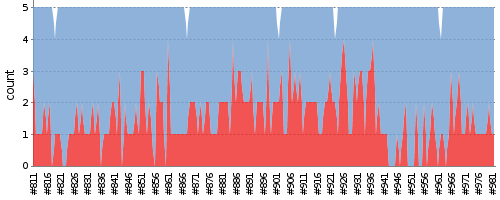
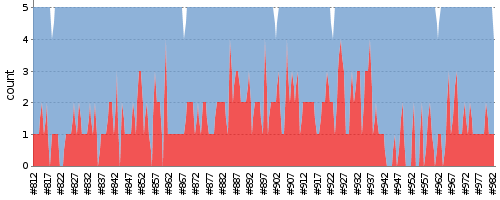
update report

diff --git a/index.md b/index.md
@@ -1,7 +1,7 @@
 ---
 layout: default
 ---
-Last update : 2016/01/27 07:59:07
+Last update : 2016/01/27 08:59:07
   
 ### Job Summary
 ___
@@ -113,6 +113,7 @@ ___
 #### Build History
 |Status|Time|Duration|Inspection|Test|Coverage|Changes|Build|Console|Image|Video|Note|
 |---|---|---|---|---|---|---|---|---|---|---|---|---|
+|![Jenkins Icon](http://jenkinshrg.github.io/images/24x24/red.png)FAILURE|2016/01/27 08:00|13 min.||1 err.|||[openhrp3.log](https://drive.google.com/file/d/0B54sHwaxmuM4UkUzNGJnYVVNMHM/view?usp=drivesdk)<br>[octomap-1.6.8.log](https://drive.google.com/file/d/0B54sHwaxmuM4Q09rTElmZ0VYd00/view?usp=drivesdk)<br>[hrpsys-base.log](https://drive.google.com/file/d/0B54sHwaxmuM4ejNjUGtndElXOUU/view?usp=drivesdk)<br>[HRP2.log](https://drive.google.com/file/d/0B54sHwaxmuM4MXNHSl9qLWNMTDQ/view?usp=drivesdk)<br>[HRP2DRC.log](https://drive.google.com/file/d/0B54sHwaxmuM4RWtHNUFWM2FzSE0/view?usp=drivesdk)<br>[hmc2.log](https://drive.google.com/file/d/0B54sHwaxmuM4RFNxUU5qZXREYk0/view?usp=drivesdk)<br>[hrpsys-humanoid.log](https://drive.google.com/file/d/0B54sHwaxmuM4el9KTmdwMnoxUkE/view?usp=drivesdk)<br>[hrpsys-private.log](https://drive.google.com/file/d/0B54sHwaxmuM4a0szNDJXQ1lLVGc/view?usp=drivesdk)<br>[choreonoid.log](https://drive.google.com/file/d/0B54sHwaxmuM4ZEZqRFVuT1p4SFk/view?usp=drivesdk)<br>|[jenkinshrg.txt](https://drive.google.com/file/d/0B54sHwaxmuM4RU40UHM0bmtvWW8/view?usp=drivesdk)<br>[testbed-terrain.txt](https://drive.google.com/file/d/0B54sHwaxmuM4enNCR2tFYmE4djQ/view?usp=drivesdk)<br>[drc-valves.txt](https://drive.google.com/file/d/0B54sHwaxmuM4WDJ2UEtLZE5xc2s/view?usp=drivesdk)<br>[drc-wall-testbed.txt](https://drive.google.com/file/d/0B54sHwaxmuM4QnE3V001Y3BQcHc/view?usp=drivesdk)<br>|[jenkinshrg.png](https://drive.google.com/file/d/0B54sHwaxmuM4OEVfT3hnOTZnUlk/view?usp=drivesdk)<br>[drc-valves.png](https://drive.google.com/file/d/0B54sHwaxmuM4WmRFY01tZnZTdkk/view?usp=drivesdk)<br>[drc-wall-testbed.png](https://drive.google.com/file/d/0B54sHwaxmuM4dFJvQW1mbDVUN2s/view?usp=drivesdk)<br>|[jenkinshrg.ogv](https://drive.google.com/file/d/0B54sHwaxmuM4VGtKb19OSS1HYzg/view?usp=drivesdk)<br>[drc-valves.ogv](https://drive.google.com/file/d/0B54sHwaxmuM4T2Mtc0c5YlZLODA/view?usp=drivesdk)<br>||
 |![Jenkins Icon](http://jenkinshrg.github.io/images/24x24/yellow.png)UNSTABLE|2016/01/27 07:00|49 min.||1 err.|||[openhrp3.log](https://drive.google.com/file/d/0B54sHwaxmuM4NEh3dHRsODllOFU/view?usp=drivesdk)<br>[octomap-1.6.8.log](https://drive.google.com/file/d/0B54sHwaxmuM4a1RIbkRWT0owdE0/view?usp=drivesdk)<br>[hrpsys-base.log](https://drive.google.com/file/d/0B54sHwaxmuM4N0F3aVNMUkRVUjA/view?usp=drivesdk)<br>[HRP2.log](https://drive.google.com/file/d/0B54sHwaxmuM4SEVJbFU4WU80LUU/view?usp=drivesdk)<br>[HRP2DRC.log](https://drive.google.com/file/d/0B54sHwaxmuM4bWtXZ0pmVkJMUVE/view?usp=drivesdk)<br>[hmc2.log](https://drive.google.com/file/d/0B54sHwaxmuM4TlRseWhFOEk2Y1E/view?usp=drivesdk)<br>[hrpsys-humanoid.log](https://drive.google.com/file/d/0B54sHwaxmuM4bXl2ZGc5dU9FS0U/view?usp=drivesdk)<br>[hrpsys-private.log](https://drive.google.com/file/d/0B54sHwaxmuM4bkJGQ3dyc1NQR0E/view?usp=drivesdk)<br>[choreonoid.log](https://drive.google.com/file/d/0B54sHwaxmuM4V3JQZldNX1RSeUU/view?usp=drivesdk)<br>|[jenkinshrg.txt](https://drive.google.com/file/d/0B54sHwaxmuM4ZXZRVVVrZlF6VVU/view?usp=drivesdk)<br>[testbed-terrain.txt](https://drive.google.com/file/d/0B54sHwaxmuM4SWxxQVl0M21ERVU/view?usp=drivesdk)<br>[drc-valves.txt](https://drive.google.com/file/d/0B54sHwaxmuM4NGNORlE3Z00zOUk/view?usp=drivesdk)<br>[drc-wall-testbed.txt](https://drive.google.com/file/d/0B54sHwaxmuM4LUFyLWoxZ25wbUE/view?usp=drivesdk)<br>[irex-balance-beam-auto.txt](https://drive.google.com/file/d/0B54sHwaxmuM4eEl3MW5HMUFhZHc/view?usp=drivesdk)<br>|[jenkinshrg.png](https://drive.google.com/file/d/0B54sHwaxmuM4blJETEZqWEJGd28/view?usp=drivesdk)<br>[testbed-terrain.png](https://drive.google.com/file/d/0B54sHwaxmuM4Qk4tamZIM0dVM0E/view?usp=drivesdk)<br>[drc-valves.png](https://drive.google.com/file/d/0B54sHwaxmuM4ZGNGbDBXMXJwdEE/view?usp=drivesdk)<br>[drc-wall-testbed.png](https://drive.google.com/file/d/0B54sHwaxmuM4X1d4WHNaRkJ6b2c/view?usp=drivesdk)<br>[irex-balance-beam-auto.png](https://drive.google.com/file/d/0B54sHwaxmuM4WF9jX3hFREtrWnc/view?usp=drivesdk)<br>|[jenkinshrg.ogv](https://drive.google.com/file/d/0B54sHwaxmuM4djM5a080YWx1dms/view?usp=drivesdk)<br>[testbed-terrain.ogv](https://drive.google.com/file/d/0B54sHwaxmuM4T3oxaW1vRXhoU1k/view?usp=drivesdk)<br>[drc-valves.ogv](https://drive.google.com/file/d/0B54sHwaxmuM4RXRKMklyN0lDNEU/view?usp=drivesdk)<br>[drc-wall-testbed.ogv](https://drive.google.com/file/d/0B54sHwaxmuM4Ym1zdmlFRV9pWGc/view?usp=drivesdk)<br>[irex-balance-beam-auto.ogv](https://drive.google.com/file/d/0B54sHwaxmuM4dkNjblpIUVU4VE0/view?usp=drivesdk)<br>||
 |![Jenkins Icon](http://jenkinshrg.github.io/images/24x24/yellow.png)UNSTABLE|2016/01/27 06:00|49 min.||1 err.|||[openhrp3.log](https://drive.google.com/file/d/0B54sHwaxmuM4R1BrZ3U3UWZXTDA/view?usp=drivesdk)<br>[octomap-1.6.8.log](https://drive.google.com/file/d/0B54sHwaxmuM4RGMyTU5xMDM4aWc/view?usp=drivesdk)<br>[hrpsys-base.log](https://drive.google.com/file/d/0B54sHwaxmuM4TkFvdXY1MFp0a1k/view?usp=drivesdk)<br>[HRP2.log](https://drive.google.com/file/d/0B54sHwaxmuM4d2RWeWJtMDdfa0E/view?usp=drivesdk)<br>[HRP2DRC.log](https://drive.google.com/file/d/0B54sHwaxmuM4b3V5M3FFemhzdW8/view?usp=drivesdk)<br>[hmc2.log](https://drive.google.com/file/d/0B54sHwaxmuM4dEhUYmNrTV8tVjg/view?usp=drivesdk)<br>[hrpsys-humanoid.log](https://drive.google.com/file/d/0B54sHwaxmuM4ZUF1UFRxOGw1Tm8/view?usp=drivesdk)<br>[hrpsys-private.log](https://drive.google.com/file/d/0B54sHwaxmuM4dnNiRUx4WkhiMjA/view?usp=drivesdk)<br>[choreonoid.log](https://drive.google.com/file/d/0B54sHwaxmuM4WFY2OVhMYzRra1E/view?usp=drivesdk)<br>|[jenkinshrg.txt](https://drive.google.com/file/d/0B54sHwaxmuM4YzRSY3BlU3htWk0/view?usp=drivesdk)<br>[testbed-terrain.txt](https://drive.google.com/file/d/0B54sHwaxmuM4T0Z6ZEx3bUtRaXM/view?usp=drivesdk)<br>[drc-valves.txt](https://drive.google.com/file/d/0B54sHwaxmuM4OHV1cHY5c1dXclk/view?usp=drivesdk)<br>[drc-wall-testbed.txt](https://drive.google.com/file/d/0B54sHwaxmuM4X1JNM2VoZGt6RjQ/view?usp=drivesdk)<br>[irex-balance-beam-auto.txt](https://drive.google.com/file/d/0B54sHwaxmuM4anFuMV9VcGFLZmM/view?usp=drivesdk)<br>|[jenkinshrg.png](https://drive.google.com/file/d/0B54sHwaxmuM4TWt2c0E4dWx0blk/view?usp=drivesdk)<br>[testbed-terrain.png](https://drive.google.com/file/d/0B54sHwaxmuM4Z0xZMXViRmJoR3c/view?usp=drivesdk)<br>[drc-valves.png](https://drive.google.com/file/d/0B54sHwaxmuM4eU5kdXktYkNRaVE/view?usp=drivesdk)<br>[drc-wall-testbed.png](https://drive.google.com/file/d/0B54sHwaxmuM4YjJ2VlFOeEZ1YnM/view?usp=drivesdk)<br>[irex-balance-beam-auto.png](https://drive.google.com/file/d/0B54sHwaxmuM4dXMxY3hmNVBFTUE/view?usp=drivesdk)<br>|[jenkinshrg.ogv](https://drive.google.com/file/d/0B54sHwaxmuM4MmZIalIxWG4tTEU/view?usp=drivesdk)<br>[testbed-terrain.ogv](https://drive.google.com/file/d/0B54sHwaxmuM4WjRZWk4xOXFCTXc/view?usp=drivesdk)<br>[drc-valves.ogv](https://drive.google.com/file/d/0B54sHwaxmuM4Sk9DaU02dXZ3VTQ/view?usp=drivesdk)<br>[drc-wall-testbed.ogv](https://drive.google.com/file/d/0B54sHwaxmuM4SFFZUmhoMTUtcGs/view?usp=drivesdk)<br>[irex-balance-beam-auto.ogv](https://drive.google.com/file/d/0B54sHwaxmuM4cGJEUHZKZzYzSW8/view?usp=drivesdk)<br>||
 |![Jenkins Icon](http://jenkinshrg.github.io/images/24x24/yellow.png)UNSTABLE|2016/01/27 05:00|48 min.||2 err.|||[openhrp3.log](https://drive.google.com/file/d/0B54sHwaxmuM4UFhXMnRPeXBNWVU/view?usp=drivesdk)<br>[octomap-1.6.8.log](https://drive.google.com/file/d/0B54sHwaxmuM4LVFyaXMyNkg5ZU0/view?usp=drivesdk)<br>[hrpsys-base.log](https://drive.google.com/file/d/0B54sHwaxmuM4eVlqM2VfdERnTGc/view?usp=drivesdk)<br>[HRP2.log](https://drive.google.com/file/d/0B54sHwaxmuM4b0pweDAzWVVESmc/view?usp=drivesdk)<br>[HRP2DRC.log](https://drive.google.com/file/d/0B54sHwaxmuM4UHVTcno3ZWZaZTQ/view?usp=drivesdk)<br>[hmc2.log](https://drive.google.com/file/d/0B54sHwaxmuM4UUZaMFFxXzVvSlU/view?usp=drivesdk)<br>[hrpsys-humanoid.log](https://drive.google.com/file/d/0B54sHwaxmuM4N2d2eFFIVTR5QUU/view?usp=drivesdk)<br>[hrpsys-private.log](https://drive.google.com/file/d/0B54sHwaxmuM4allHWHJITWtHcUU/view?usp=drivesdk)<br>[choreonoid.log](https://drive.google.com/file/d/0B54sHwaxmuM4Z2pEcEwwN2FaSEU/view?usp=drivesdk)<br>|[jenkinshrg.txt](https://drive.google.com/file/d/0B54sHwaxmuM4WmRFUGtBR29IU0U/view?usp=drivesdk)<br>[testbed-terrain.txt](https://drive.google.com/file/d/0B54sHwaxmuM4dzQtd1hkWl9ZN3c/view?usp=drivesdk)<br>[drc-valves.txt](https://drive.google.com/file/d/0B54sHwaxmuM4S2lXSEc1UnEyY2c/view?usp=drivesdk)<br>[drc-wall-testbed.txt](https://drive.google.com/file/d/0B54sHwaxmuM4WldPLXQ1RDhsWmM/view?usp=drivesdk)<br>[irex-balance-beam-auto.txt](https://drive.google.com/file/d/0B54sHwaxmuM4M0RubElBWlFvYzg/view?usp=drivesdk)<br>|[jenkinshrg.png](https://drive.google.com/file/d/0B54sHwaxmuM4dkZjeXlXVnNTU3c/view?usp=drivesdk)<br>[testbed-terrain.png](https://drive.google.com/file/d/0B54sHwaxmuM4Q0JOWUJKX2htMHc/view?usp=drivesdk)<br>[drc-valves.png](https://drive.google.com/file/d/0B54sHwaxmuM4YUV4SFdFUkJZX00/view?usp=drivesdk)<br>[drc-wall-testbed.png](https://drive.google.com/file/d/0B54sHwaxmuM4MndBdk5nNTNiRlU/view?usp=drivesdk)<br>[irex-balance-beam-auto.png](https://drive.google.com/file/d/0B54sHwaxmuM4bnlua0pUd0JYcmc/view?usp=drivesdk)<br>|[jenkinshrg.ogv](https://drive.google.com/file/d/0B54sHwaxmuM4ZDgtQmJiektLckU/view?usp=drivesdk)<br>[testbed-terrain.ogv](https://drive.google.com/file/d/0B54sHwaxmuM4RzJyU0tGTy13bjQ/view?usp=drivesdk)<br>[drc-valves.ogv](https://drive.google.com/file/d/0B54sHwaxmuM4NFlrUlFralNtcWc/view?usp=drivesdk)<br>[drc-wall-testbed.ogv](https://drive.google.com/file/d/0B54sHwaxmuM4NDhLOFA2QkJZeW8/view?usp=drivesdk)<br>[irex-balance-beam-auto.ogv](https://drive.google.com/file/d/0B54sHwaxmuM4ak1hbUR6NjJqYk0/view?usp=drivesdk)<br>||
@@ -212,4 +213,3 @@ ___
 |![Jenkins Icon](http://jenkinshrg.github.io/images/24x24/yellow.png)UNSTABLE|2016/01/23 06:00|48 min.||2 err.|||[openhrp3.log](https://drive.google.com/file/d/0B54sHwaxmuM4LXFtWm1ENjF6TlU/view?usp=drivesdk)<br>[hrpsys-base.log](https://drive.google.com/file/d/0B54sHwaxmuM4NXI2R3M2RW05Qk0/view?usp=drivesdk)<br>[HRP2.log](https://drive.google.com/file/d/0B54sHwaxmuM4ck5KeU9DMnY4aW8/view?usp=drivesdk)<br>[HRP2DRC.log](https://drive.google.com/file/d/0B54sHwaxmuM4NnlBZS1iMlNINXc/view?usp=drivesdk)<br>[hmc2.log](https://drive.google.com/file/d/0B54sHwaxmuM4LVR0S0txRThKTjA/view?usp=drivesdk)<br>[hrpsys-humanoid.log](https://drive.google.com/file/d/0B54sHwaxmuM4Y1I2OERuSmhzN2s/view?usp=drivesdk)<br>[hrpsys-private.log](https://drive.google.com/file/d/0B54sHwaxmuM4TUtEenZ4MkE0M1E/view?usp=drivesdk)<br>[choreonoid.log](https://drive.google.com/file/d/0B54sHwaxmuM4dXJNNVR3dGhGZFk/view?usp=drivesdk)<br>|[jenkinshrg.txt](https://drive.google.com/file/d/0B54sHwaxmuM4OG5tenJJQkp1cFk/view?usp=drivesdk)<br>[testbed-terrain.txt](https://drive.google.com/file/d/0B54sHwaxmuM4LVpVVVBWRUthbmc/view?usp=drivesdk)<br>[drc-valves.txt](https://drive.google.com/file/d/0B54sHwaxmuM4R2gzb2Vta3JrTDA/view?usp=drivesdk)<br>[drc-wall-testbed.txt](https://drive.google.com/file/d/0B54sHwaxmuM4cDBjeG80cm5OSXM/view?usp=drivesdk)<br>[irex-balance-beam-auto.txt](https://drive.google.com/file/d/0B54sHwaxmuM4LUtyNGtfN1lTVWM/view?usp=drivesdk)<br>|[jenkinshrg.png](https://drive.google.com/file/d/0B54sHwaxmuM4WG04dzJqZHhtdHc/view?usp=drivesdk)<br>[testbed-terrain.png](https://drive.google.com/file/d/0B54sHwaxmuM4a0F1b21iUF9ZV2M/view?usp=drivesdk)<br>[drc-valves.png](https://drive.google.com/file/d/0B54sHwaxmuM4SnNsNVN2TVlhU1k/view?usp=drivesdk)<br>[drc-wall-testbed.png](https://drive.google.com/file/d/0B54sHwaxmuM4Tm1nRkxVR2hmVDg/view?usp=drivesdk)<br>[irex-balance-beam-auto.png](https://drive.google.com/file/d/0B54sHwaxmuM4S1lQZm1NaEx4TDQ/view?usp=drivesdk)<br>|[jenkinshrg.ogv](https://drive.google.com/file/d/0B54sHwaxmuM4MlJ6NTRZZW9LMXM/view?usp=drivesdk)<br>[testbed-terrain.ogv](https://drive.google.com/file/d/0B54sHwaxmuM4S0pTSk5Eb0ZSTW8/view?usp=drivesdk)<br>[drc-valves.ogv](https://drive.google.com/file/d/0B54sHwaxmuM4OXhvTklmRmFPOFE/view?usp=drivesdk)<br>[drc-wall-testbed.ogv](https://drive.google.com/file/d/0B54sHwaxmuM4bGR6N1U5TFFEdkk/view?usp=drivesdk)<br>[irex-balance-beam-auto.ogv](https://drive.google.com/file/d/0B54sHwaxmuM4YnhsdzBadjB3aXc/view?usp=drivesdk)<br>||
 |![Jenkins Icon](http://jenkinshrg.github.io/images/24x24/yellow.png)UNSTABLE|2016/01/23 05:00|48 min.||4 err.|||[openhrp3.log](https://drive.google.com/file/d/0B54sHwaxmuM4YmxJUFdINHdTcHM/view?usp=drivesdk)<br>[hrpsys-base.log](https://drive.google.com/file/d/0B54sHwaxmuM4bkRuaXRiLW5BWkE/view?usp=drivesdk)<br>[HRP2.log](https://drive.google.com/file/d/0B54sHwaxmuM4TVJWb25nM0pNWGc/view?usp=drivesdk)<br>[HRP2DRC.log](https://drive.google.com/file/d/0B54sHwaxmuM4d2xGLXJRVFNBU0U/view?usp=drivesdk)<br>[hmc2.log](https://drive.google.com/file/d/0B54sHwaxmuM4LVBzM1FwUnkzU1U/view?usp=drivesdk)<br>[hrpsys-humanoid.log](https://drive.google.com/file/d/0B54sHwaxmuM4OVFDSThZZWJzdE0/view?usp=drivesdk)<br>[hrpsys-private.log](https://drive.google.com/file/d/0B54sHwaxmuM4UlZlMTlfN09Gd2M/view?usp=drivesdk)<br>[choreonoid.log](https://drive.google.com/file/d/0B54sHwaxmuM4YnEtZEdiYWUzS00/view?usp=drivesdk)<br>|[jenkinshrg.txt](https://drive.google.com/file/d/0B54sHwaxmuM4RzJhRlVWRzNkRFU/view?usp=drivesdk)<br>[testbed-terrain.txt](https://drive.google.com/file/d/0B54sHwaxmuM4cTdRQm9QUl9pdU0/view?usp=drivesdk)<br>[drc-valves.txt](https://drive.google.com/file/d/0B54sHwaxmuM4bFFCbUNwUzRibzA/view?usp=drivesdk)<br>[drc-wall-testbed.txt](https://drive.google.com/file/d/0B54sHwaxmuM4Y2lFaE1iRkx4eHc/view?usp=drivesdk)<br>[irex-balance-beam-auto.txt](https://drive.google.com/file/d/0B54sHwaxmuM4VmlaMHNCN2RIaW8/view?usp=drivesdk)<br>|[jenkinshrg.png](https://drive.google.com/file/d/0B54sHwaxmuM4aWhpQmNOMmxHY2c/view?usp=drivesdk)<br>[testbed-terrain.png](https://drive.google.com/file/d/0B54sHwaxmuM4aFh2S1JUZmFmZTQ/view?usp=drivesdk)<br>[drc-valves.png](https://drive.google.com/file/d/0B54sHwaxmuM4ZHNzWFNGd09Vczg/view?usp=drivesdk)<br>[drc-wall-testbed.png](https://drive.google.com/file/d/0B54sHwaxmuM4a0duZVRaM1lNQlk/view?usp=drivesdk)<br>[irex-balance-beam-auto.png](https://drive.google.com/file/d/0B54sHwaxmuM4d3B2d0x3cVBlbFE/view?usp=drivesdk)<br>|[jenkinshrg.ogv](https://drive.google.com/file/d/0B54sHwaxmuM4VW1ZbVRyNXhteVU/view?usp=drivesdk)<br>[testbed-terrain.ogv](https://drive.google.com/file/d/0B54sHwaxmuM4SW5QVmV5LS1aV28/view?usp=drivesdk)<br>[drc-valves.ogv](https://drive.google.com/file/d/0B54sHwaxmuM4UGRTZ0FraTdxMDQ/view?usp=drivesdk)<br>[drc-wall-testbed.ogv](https://drive.google.com/file/d/0B54sHwaxmuM4dEp4VHA2TGlmRGs/view?usp=drivesdk)<br>[irex-balance-beam-auto.ogv](https://drive.google.com/file/d/0B54sHwaxmuM4elJiYlB1Yi03b28/view?usp=drivesdk)<br>||
 |![Jenkins Icon](http://jenkinshrg.github.io/images/24x24/yellow.png)UNSTABLE|2016/01/23 04:00|48 min.||1 err.|||[openhrp3.log](https://drive.google.com/file/d/0B54sHwaxmuM4Y3hFLUV2YjlhWkE/view?usp=drivesdk)<br>[hrpsys-base.log](https://drive.google.com/file/d/0B54sHwaxmuM4VElJeTZWdm5nRXM/view?usp=drivesdk)<br>[HRP2.log](https://drive.google.com/file/d/0B54sHwaxmuM4SEJiaEhSd3hVMHc/view?usp=drivesdk)<br>[HRP2DRC.log](https://drive.google.com/file/d/0B54sHwaxmuM4NjVuVUIzYkhiWHM/view?usp=drivesdk)<br>[hmc2.log](https://drive.google.com/file/d/0B54sHwaxmuM4TERWUXNXcXhYcnM/view?usp=drivesdk)<br>[hrpsys-humanoid.log](https://drive.google.com/file/d/0B54sHwaxmuM4UDVFV0hyLWQ4UzA/view?usp=drivesdk)<br>[hrpsys-private.log](https://drive.google.com/file/d/0B54sHwaxmuM4eTdJa0pPaUs4Unc/view?usp=drivesdk)<br>[choreonoid.log](https://drive.google.com/file/d/0B54sHwaxmuM4WGJvcU9WWS13Y0E/view?usp=drivesdk)<br>|[jenkinshrg.txt](https://drive.google.com/file/d/0B54sHwaxmuM4YkFVSjN1ckVxaFU/view?usp=drivesdk)<br>[testbed-terrain.txt](https://drive.google.com/file/d/0B54sHwaxmuM4ekRfa1paTUwyUEE/view?usp=drivesdk)<br>[drc-valves.txt](https://drive.google.com/file/d/0B54sHwaxmuM4cDFmUk9qaV91RkE/view?usp=drivesdk)<br>[drc-wall-testbed.txt](https://drive.google.com/file/d/0B54sHwaxmuM4LWRZR25fYksxQU0/view?usp=drivesdk)<br>[irex-balance-beam-auto.txt](https://drive.google.com/file/d/0B54sHwaxmuM4RUdRZ0JqaUlQN1U/view?usp=drivesdk)<br>|[jenkinshrg.png](https://drive.google.com/file/d/0B54sHwaxmuM4NVc1SFVYZGRuams/view?usp=drivesdk)<br>[testbed-terrain.png](https://drive.google.com/file/d/0B54sHwaxmuM4czVBRW9Gcm83MnM/view?usp=drivesdk)<br>[drc-valves.png](https://drive.google.com/file/d/0B54sHwaxmuM4QzY1VURUWGFDTzg/view?usp=drivesdk)<br>[drc-wall-testbed.png](https://drive.google.com/file/d/0B54sHwaxmuM4WjJydTk1dWtmRVU/view?usp=drivesdk)<br>[irex-balance-beam-auto.png](https://drive.google.com/file/d/0B54sHwaxmuM4RTA4UWlSNllvX1k/view?usp=drivesdk)<br>|[jenkinshrg.ogv](https://drive.google.com/file/d/0B54sHwaxmuM4LXV4N1NmX0hhbW8/view?usp=drivesdk)<br>[testbed-terrain.ogv](https://drive.google.com/file/d/0B54sHwaxmuM4c2duY3RqRDBNeWc/view?usp=drivesdk)<br>[drc-valves.ogv](https://drive.google.com/file/d/0B54sHwaxmuM4bDI3ME55bjFjdDg/view?usp=drivesdk)<br>[drc-wall-testbed.ogv](https://drive.google.com/file/d/0B54sHwaxmuM4akVsYmFZMXJCSjg/view?usp=drivesdk)<br>[irex-balance-beam-auto.ogv](https://drive.google.com/file/d/0B54sHwaxmuM4Mlhqdy1sb2xLRWc/view?usp=drivesdk)<br>||
-|![Jenkins Icon](http://jenkinshrg.github.io/images/24x24/yellow.png)UNSTABLE|2016/01/23 03:00|48 min.||2 err.|||[openhrp3.log](https://drive.google.com/file/d/0B54sHwaxmuM4TFF4NTJnSkpsc1E/view?usp=drivesdk)<br>[hrpsys-base.log](https://drive.google.com/file/d/0B54sHwaxmuM4eTgxdlBESnY4eDQ/view?usp=drivesdk)<br>[HRP2.log](https://drive.google.com/file/d/0B54sHwaxmuM4YnVpWVE4Z0RvYjA/view?usp=drivesdk)<br>[HRP2DRC.log](https://drive.google.com/file/d/0B54sHwaxmuM4MlVtUVU5bTNDejA/view?usp=drivesdk)<br>[hmc2.log](https://drive.google.com/file/d/0B54sHwaxmuM4NU41QVkyX09JYmM/view?usp=drivesdk)<br>[hrpsys-humanoid.log](https://drive.google.com/file/d/0B54sHwaxmuM4Ql9fOGVvaFltSFU/view?usp=drivesdk)<br>[hrpsys-private.log](https://drive.google.com/file/d/0B54sHwaxmuM4RjdmX3RfQWxHSU0/view?usp=drivesdk)<br>[choreonoid.log](https://drive.google.com/file/d/0B54sHwaxmuM4cEFLQmJWcE5rNzQ/view?usp=drivesdk)<br>|[jenkinshrg.txt](https://drive.google.com/file/d/0B54sHwaxmuM4c2VOOU5aQk9RTEk/view?usp=drivesdk)<br>[testbed-terrain.txt](https://drive.google.com/file/d/0B54sHwaxmuM4YVBKVWVyc29WbXc/view?usp=drivesdk)<br>[drc-valves.txt](https://drive.google.com/file/d/0B54sHwaxmuM4akJiMGZFbXp2M2M/view?usp=drivesdk)<br>[drc-wall-testbed.txt](https://drive.google.com/file/d/0B54sHwaxmuM4SUxvUFZuZWNIZk0/view?usp=drivesdk)<br>[irex-balance-beam-auto.txt](https://drive.google.com/file/d/0B54sHwaxmuM4RExlU2Vzb2EydGs/view?usp=drivesdk)<br>|[jenkinshrg.png](https://drive.google.com/file/d/0B54sHwaxmuM4eHd1ZEFVZ3pvYjA/view?usp=drivesdk)<br>[testbed-terrain.png](https://drive.google.com/file/d/0B54sHwaxmuM4RkJNeWZsem5oUUk/view?usp=drivesdk)<br>[drc-valves.png](https://drive.google.com/file/d/0B54sHwaxmuM4eXV0a1QxZzdVdEE/view?usp=drivesdk)<br>[drc-wall-testbed.png](https://drive.google.com/file/d/0B54sHwaxmuM4c0RfTXdvSmFUcGc/view?usp=drivesdk)<br>[irex-balance-beam-auto.png](https://drive.google.com/file/d/0B54sHwaxmuM4dHhHTDlZYk12dnM/view?usp=drivesdk)<br>|[jenkinshrg.ogv](https://drive.google.com/file/d/0B54sHwaxmuM4RDlIdHIta2tLVm8/view?usp=drivesdk)<br>[testbed-terrain.ogv](https://drive.google.com/file/d/0B54sHwaxmuM4aTFCdmtuXzI0ZHc/view?usp=drivesdk)<br>[drc-valves.ogv](https://drive.google.com/file/d/0B54sHwaxmuM4aVhkVmpVeV9yWXc/view?usp=drivesdk)<br>[drc-wall-testbed.ogv](https://drive.google.com/file/d/0B54sHwaxmuM4d1ZQRkJTZzBWOEU/view?usp=drivesdk)<br>[irex-balance-beam-auto.ogv](https://drive.google.com/file/d/0B54sHwaxmuM4TU1ISjZTbklXV2M/view?usp=drivesdk)<br>||
